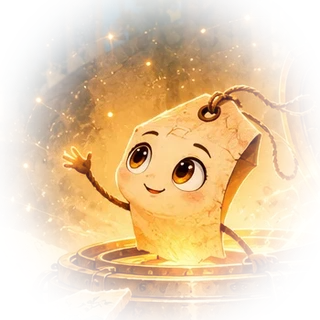
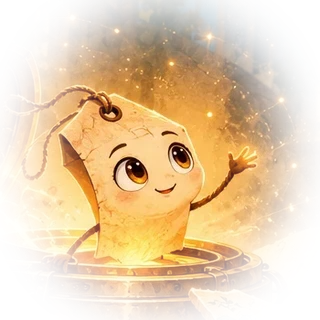
對戰介面優化-2

diff --git a/docs/battle-art-prompts.md b/docs/battle-art-prompts.md
@@ -4,8 +4,8 @@
 
 | 檔名 | 角色 | 朝向 |
 |---|---|---|
-| `battle-hero.webp` | 見習守護員（玩家） | 面向左 |
-| `battle-enemy-01.webp` ～ `battle-enemy-08.webp` | 各關歷史竊盜者 | 面向右 |
+| `battle-hero.webp` | 見習守護員（玩家，站畫面左側） | 面向右 |
+| `battle-enemy-01.webp` ～ `battle-enemy-08.webp` | 各關歷史竊盜者（站畫面右側） | 面向左 |
 
 ## 共同規格
 
@@ -24,51 +24,52 @@ Hand-painted children's storybook adventure illustration, same style as a museum
 
 **battle-hero.webp — 見習守護員**
 ```
-A 11-year-old apprentice history guardian, gender-neutral, facing LEFT in a ready stance. Deep sea-blue long coat with amber trim, flowing golden scarf, navy explorer cap with a small gold badge, leather satchel with rolled paper scrolls. Holds a wooden staff topped with a glowing brass compass that emits warm light. Brave and friendly expression.
+A 11-year-old apprentice history guardian, gender-neutral, facing RIGHT in a ready stance. Deep sea-blue long coat with amber trim, flowing golden scarf, navy explorer cap with a small gold badge, leather satchel with rolled paper scrolls. Holds a wooden staff topped with a glowing brass compass that emits warm light. Brave and friendly expression.
 ```
 
 **battle-enemy-01.webp — 航線迷霧（第 1 關）**
 ```
-A thief made of dark navy ink fog, facing RIGHT, soft cloud body with drifting wisps, dark red bandit eye-mask with two glowing amber eyes, swallowing dotted golden sea-route lines; one wispy arm clutches a glowing gold map shard.
+A thief made of dark navy ink fog, facing LEFT, soft cloud body with drifting wisps, dark red bandit eye-mask with two glowing amber eyes, swallowing dotted golden sea-route lines; one wispy arm clutches a glowing gold map shard.
 ```
 
 **battle-enemy-02.webp — 爭吵噪音（第 2 關）**
 ```
-A spiky round thief made of dark crimson-black ink, facing RIGHT, jagged shouting mouth glowing orange, red bandit eye-mask, orange sound-wave arcs bursting from both sides; holds a glowing gold balance-weight shard. Noisy, mischievous, not scary.
+A spiky round thief made of dark crimson-black ink, facing LEFT, jagged shouting mouth glowing orange, red bandit eye-mask, orange sound-wave arcs bursting from both sides; holds a glowing gold balance-weight shard. Noisy, mischievous, not scary.
 ```
 
 **battle-enemy-03.webp — 錯位巨石（第 3 關）**
 ```
-A stone golem thief, facing RIGHT, made of mismatched floating rock chunks bound by black ink, glowing amber cracks, red bandit eye-mask across the largest rock, small rocks orbiting; a glowing gold terrain-model shard wedged in its body.
+A stone golem thief, facing LEFT, made of mismatched floating rock chunks bound by black ink, glowing amber cracks, red bandit eye-mask across the largest rock, small rocks orbiting; a glowing gold terrain-model shard wedged in its body.
 ```
 
 **battle-enemy-04.webp — 暴風渦流（第 4 關）**
 ```
-A storm-vortex thief, facing RIGHT, swirling dark-blue ink tornado with a funnel tail, small pale-blue lightning, red bandit eye-mask on the dark core with amber eyes; a glowing gold calendar shard spins in its wind.
+A storm-vortex thief, facing LEFT, swirling dark-blue ink tornado with a funnel tail, small pale-blue lightning, red bandit eye-mask on the dark core with amber eyes; a glowing gold calendar shard spins in its wind.
 ```
 
 **battle-enemy-05.webp — 年代裂縫（第 5 關）**
 ```
-A thief living inside a vertical time crack, facing RIGHT, pitch-black jagged rift with glowing teal edges, red bandit eye-mask with amber eyes inside the rift, floating terracotta pottery shards and stone-tool fragments; a glowing gold stone-tool shard at its base.
+A thief living inside a vertical time crack, facing LEFT, pitch-black jagged rift with glowing teal edges, red bandit eye-mask with amber eyes inside the rift, floating terracotta pottery shards and stone-tool fragments; a glowing gold stone-tool shard at its base.
 ```
 
 **battle-enemy-06.webp — 單一化墨團（第 6 關）**
 ```
-A dripping black ink-blob thief, facing RIGHT, ONE large amber cyclops eye through a red bandit eye-mask, ink drips covering colorful woven textile stripes (red, green, gold, blue) behind it; holds a glowing gold woven-cloth shard.
+A dripping black ink-blob thief, facing LEFT, ONE large amber cyclops eye through a red bandit eye-mask, ink drips covering colorful woven textile stripes (red, green, gold, blue) behind it; holds a glowing gold woven-cloth shard.
 ```
 
 **battle-enemy-07.webp — 時序海怪（第 7 關）**
 ```
-A small ink-octopus sea-monster thief, facing RIGHT, dark navy dome head with a brass clock face on the forehead, curling tentacles, red bandit eye-mask with amber eyes; one tentacle grips a glowing gold sea-chart shard. Playful-menacing, not horror.
+A small ink-octopus sea-monster thief, facing LEFT, dark navy dome head with a brass clock face on the forehead, curling tentacles, red bandit eye-mask with amber eyes; one tentacle grips a glowing gold sea-chart shard. Playful-menacing, not horror.
 ```
 
 **battle-enemy-08.webp — 抹除者（最終關）**
 ```
-The Eraser: a tall hooded figure of black ink smoke, facing RIGHT, completely FACELESS hood interior (dark void with faint teal edge — no eyes, matching the prologue), smoky lower body, holds a giant pale eraser block with a blue sleeve; golden dotted route lines fade where it passes; a glowing gold scroll shard in its other hand.
+The Eraser: a tall hooded figure of black ink smoke, facing LEFT, completely FACELESS hood interior (dark void with faint teal edge — no eyes, matching the prologue), smoky lower body, holds a giant pale eraser block with a blue sleeve; golden dotted route lines fade where it passes; a glowing gold scroll shard in its other hand.
 ```
 
 ## 放入後檢查
 
 1. 圖檔名稱與上表完全一致，放在 `assets/`。
-2. 打開任一關進入戰鬥：插畫出現、SVG 消失；敵人在左面向右，守護員在右面向左。
-3. 若主體太小或太大，裁切畫布或調整留白，不必改程式。
+2. 打開任一關進入戰鬥：插畫出現、SVG 消失；守護員在左面向右，敵人在右面向左。
+3. 若重新生成守護員圖，法球起點要對準新法杖：修改 HTML 中 `staffTip()` 的 `.912`（寶珠在圖寬的比例）與 `.146`（寶珠在圖高的比例）。
+4. 若主體太小或太大，裁切畫布或調整留白，不必改程式。
